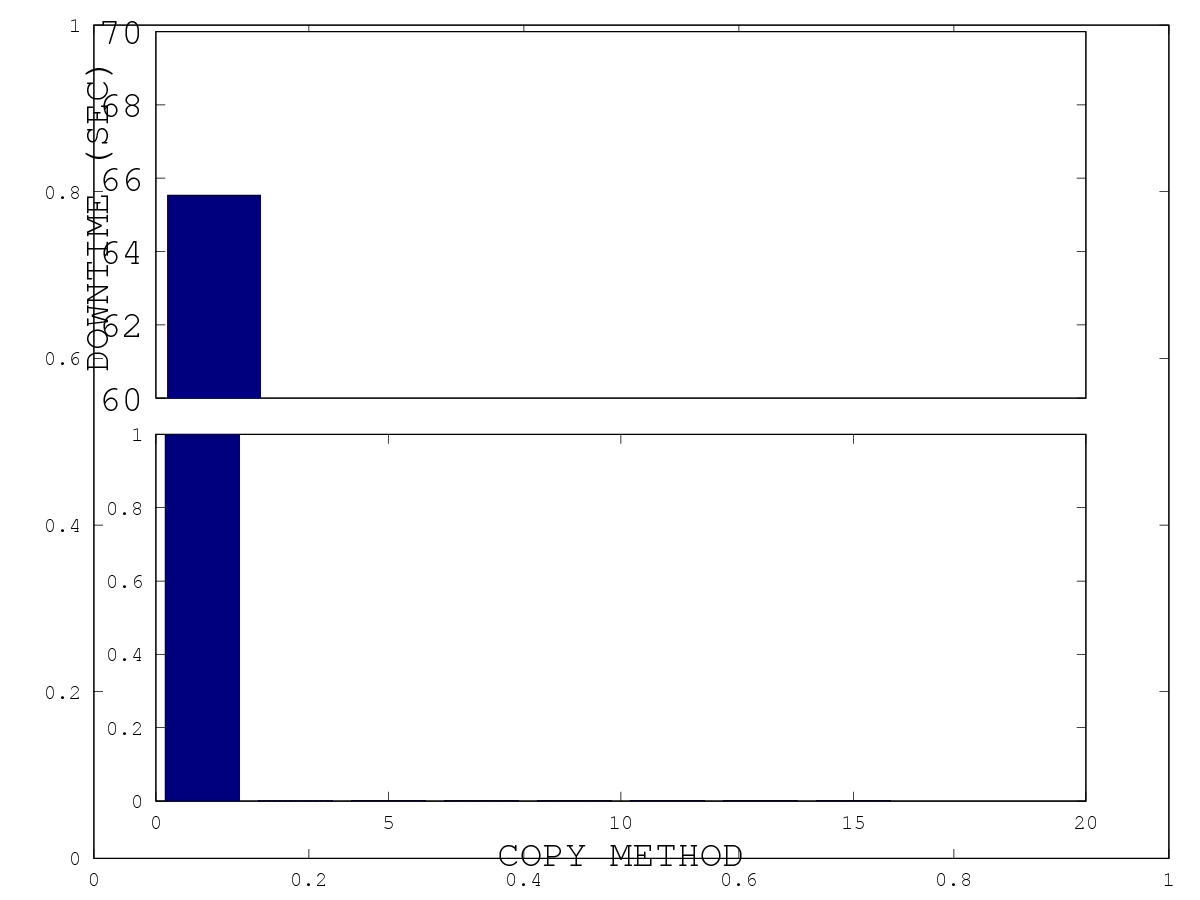
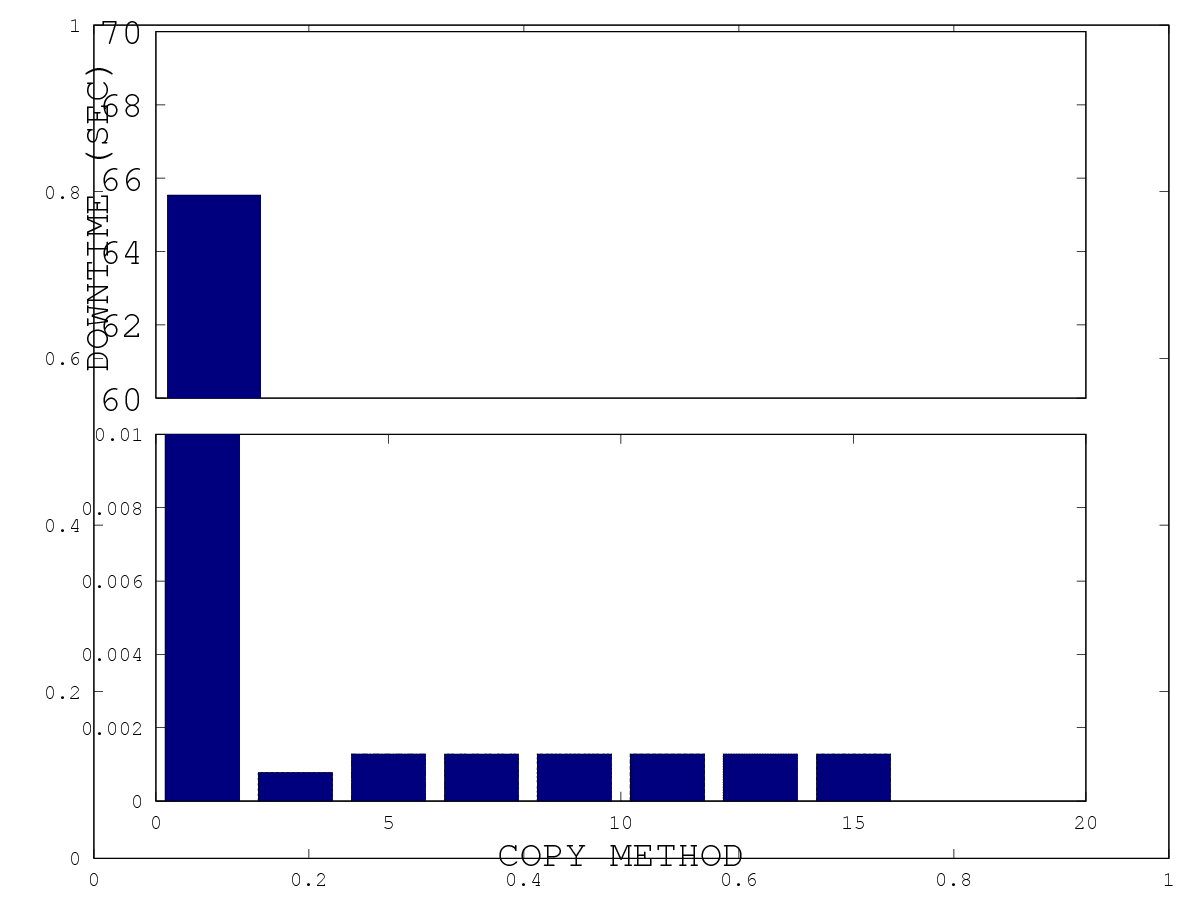
basic_break.m

Changed region(s): [[0.2158, 0.8089, 0.74, 0.9022]]

diff --git a/basic_break.m b/basic_break.m
@@ -286,7 +286,7 @@ xintervals = 1:xinterval:(xinterval*length(x));
 figure;
 output = strcat(prefix, ".dt");
 
-ylim1 = [0 1];
+ylim1 = [0 0.01];
 ylim2 = [60 70];
 
 %cla;
